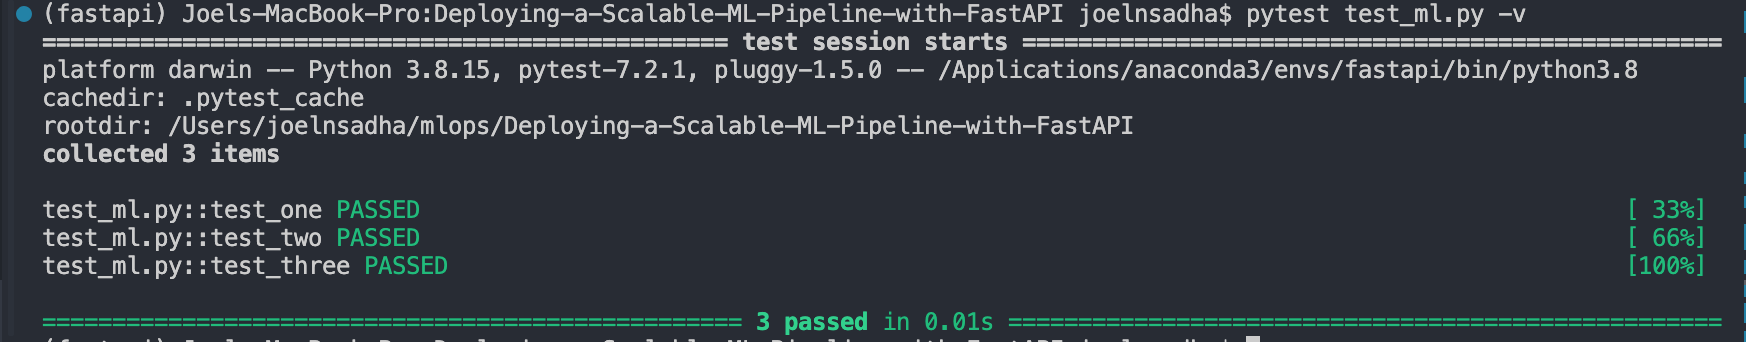
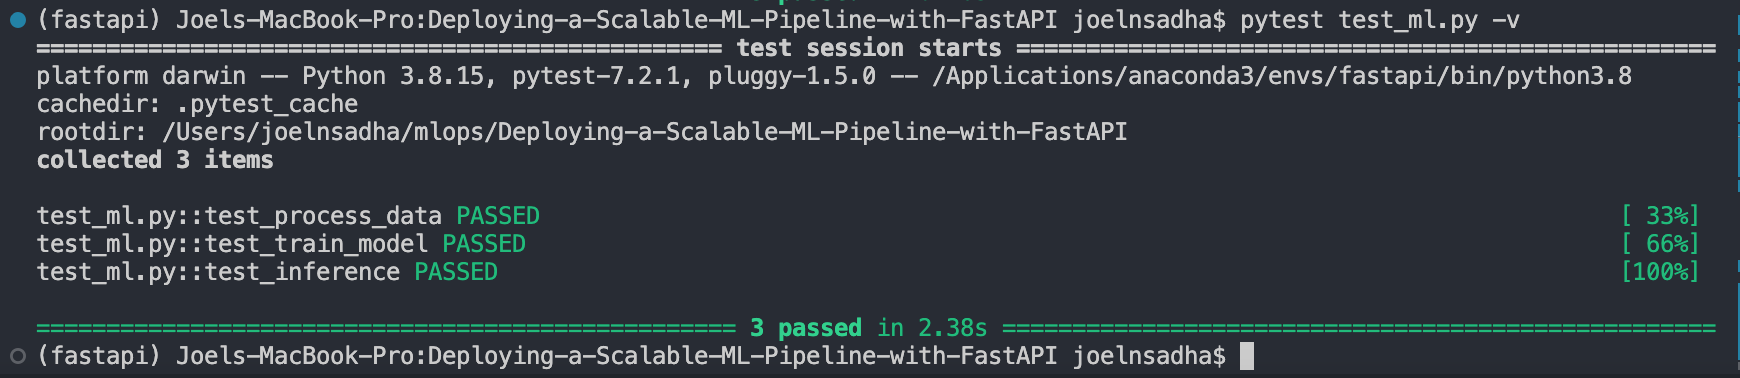
Added Unit Testing

diff --git a/test_ml.py b/test_ml.py
@@ -1,28 +1,103 @@
 import pytest
 # TODO: add necessary import
+import pandas as pd
+import numpy as np
+from sklearn.preprocessing import OneHotEncoder, LabelBinarizer
+from sklearn.ensemble import RandomForestClassifier
+from ml.data import process_data
+from ml.model import train_model, inference
 
-# TODO: implement the first test. Change the function name and input as needed
-def test_one():
+def test_process_data():
     """
-    # add description for the first test
+    Test the process_data function to ensure it correctly processes the data.
     """
-    # Your code here
-    pass
+    # Creating a sample dataframe
+    data = pd.DataFrame({
+        'workclass': ['Private', 'Self-emp-not-inc', 'Private'],
+        'education': ['Bachelors', 'HS-grad', 'HS-grad'],
+        'marital-status': ['Married-civ-spouse', 'Divorced', 'Divorced'],
+        'occupation': ['Prof-specialty', 'Exec-managerial', 'Handlers-cleaners'],
+        'relationship': ['Husband', 'Not-in-family', 'Not-in-family'],
+        'race': ['White', 'Black', 'White'],
+        'sex': ['Male', 'Female', 'Female'],
+        'native-country': ['United-States', 'United-States', 'United-States'],
+        'salary': ['>50K', '<=50K', '<=50K']
+    })
 
+    
+    data.columns = [col.replace("-", "_") for col in data.columns]
+    cat_features = ['workclass', 'education', 'marital_status', 'occupation', 'relationship', 'race', 'sex', 'native_country']
 
-# TODO: implement the second test. Change the function name and input as needed
-def test_two():
-    """
-    # add description for the second test
-    """
-    # Your code here
-    pass
+    X, y, encoder, lb = process_data(
+        data,
+        categorical_features=cat_features,
+        label='salary',
+        training=True
+    )
 
+    # The shape of output
+    assert X.shape[0] == 3
+    expected_num_columns = X.shape[1] 
+    assert X.shape[1] == expected_num_columns
 
-# TODO: implement the third test. Change the function name and input as needed
-def test_three():
+    
+    assert (y == lb.transform(data['salary'].values).ravel()).all()
+
+def test_train_model():
     """
-    # add description for the third test
+    Test the train_model function to ensure it correctly trains a model.
     """
-    # Your code here
-    pass
+    # Sample Dataframe
+    X_train = pd.DataFrame({
+        'feature1': [0.1, 0.2, 0.3, 0.4],
+        'feature2': [1, 2, 3, 4],
+        'feature3': [5, 6, 7, 8]
+    })
+    y_train = pd.Series([0, 1, 0, 1])
+
+    # Training the model
+    model = train_model(X_train, y_train)
+
+    
+    assert isinstance(model, RandomForestClassifier)
+
+    
+    assert hasattr(model, "n_classes_")
+
+    
+    predictions = model.predict(X_train)
+    assert len(predictions) == len(X_train)
+
+def test_inference():
+    """
+    Test the inference function to ensure it correctly makes predictions.
+    """
+    # Sample dataframe
+    X_train = pd.DataFrame({
+        'feature1': [0.1, 0.2, 0.3, 0.4],
+        'feature2': [1, 2, 3, 4],
+        'feature3': [5, 6, 7, 8]
+    })
+    y_train = pd.Series([0, 1, 0, 1])
+
+    # Training the model
+    model = train_model(X_train, y_train)
+
+    # Sample dataframe
+    X_test = pd.DataFrame({
+        'feature1': [0.5, 0.6],
+        'feature2': [5, 6],
+        'feature3': [9, 10]
+    })
+
+    
+    preds = inference(model, X_test)
+
+    
+    assert preds.shape[0] == X_test.shape[0]
+
+    
+    assert isinstance(preds, (pd.Series, np.ndarray))
+
+if __name__ == "__main__":
+    pytest.main()

diff --git a/model_card_template.md b/model_card_template.md
@@ -35,6 +35,8 @@ Objective: To assess the model's performance.
 
 The model's performance was assessed using precision, recall, and F1-score. The following metrics were obtained on the test dataset:
 
+Metrics_Precision: 0.7419 | Recall: 0.6384 | F1: 0.6863
+
 workclass: ?, Count: 389
 Precision: 0.6538 | Recall: 0.4048 | F1: 0.5000
 workclass: Federal-gov, Count: 191
